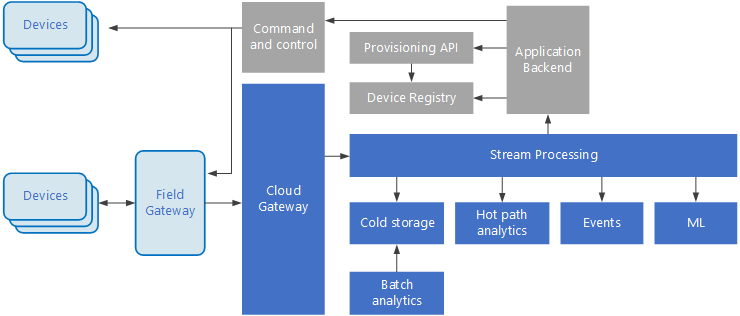
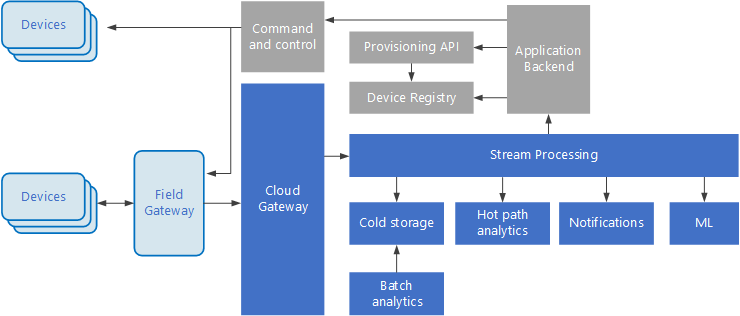
Adding IoT to EDA

diff --git a/docs/guide/architecture-styles/event-driven.md b/docs/guide/architecture-styles/event-driven.md
@@ -41,18 +41,41 @@ In the logical diagram above, each type of consumer is shown as a single box. In
 - Exactly-once processing.
 
 
-## IoT Architecture
+## IoT architecture
 
-The following diagram shows a logical architecture for IoT. The diagram emphasizes the event-streaming components of the architecture.
+Event driven architectures are central to IoT solutions. The following diagram shows a possible logical architecture for IoT. The diagram emphasizes the event-streaming components of the architecture.
 
 ![](./images/iot.png)
 
-The **cloud gateway** ingests device events at the cloud boundary, using a brokered messaging system. 
+The **cloud gateway** ingests device events at the cloud boundary, using a reliable, low latency messaging system.
 
+Devices might send events directly to the cloud gateway, or through a **field gateway**. A field gateway is a specialized device or software, usually co-located with the devices, that receives events and forwards them to the cloud gateway. The field gateay might also pre-process the raw device events, performing functions such as filtering, aggregation, or protocol transformation.
 
+After ingestion, events go through one ore more **stream processors** that can route the data (for example, to storage) or perform analytics and other processing.
+
+The following are some common types of processing. (This list is certainly not exhaustive.)
+
+- Writing event data to cold storage, for archiving or batch analytics.
+
+- Hot path analytics: Analyzing the event stream in (near) real time, to detect anomalies, recognize patterns over rolling time windows, or trigger alerts when a specific condition occurs in the stream. 
+
+- Handling special types of non-telemetry messages from devices, such as notifications and alarms. 
+
+- Machine learning.
+
+The boxes that are shaded gray show components of an IoT system that are not directly related to event streaming, but are included here for completeness.
+
+- The **device registry** is a database of the provisioned devices, including the device IDs and usually device metadata, such as location.
+
+- The **provisioning API** is a common external interface for provisioning and registering new devices.
+
+- Some IoT solutions allow **command and control messages** to be sent to devices.
+
+> This section has presented a very high-level view of IoT, and there are many subtleties and challenges to consider. For a more detailed reference architecture and discussion, see the [Microsoft Azure IoT Reference Architecture][iot-ref-arch] (PDF download).
 
  <!-- links -->
 
+[iot-ref-arch]: https://azure.microsoft.com/en-us/updates/microsoft-azure-iot-reference-architecture-available/
 [minimize-coordination]: ../design-principles/minimize-coordination.md
 
 
